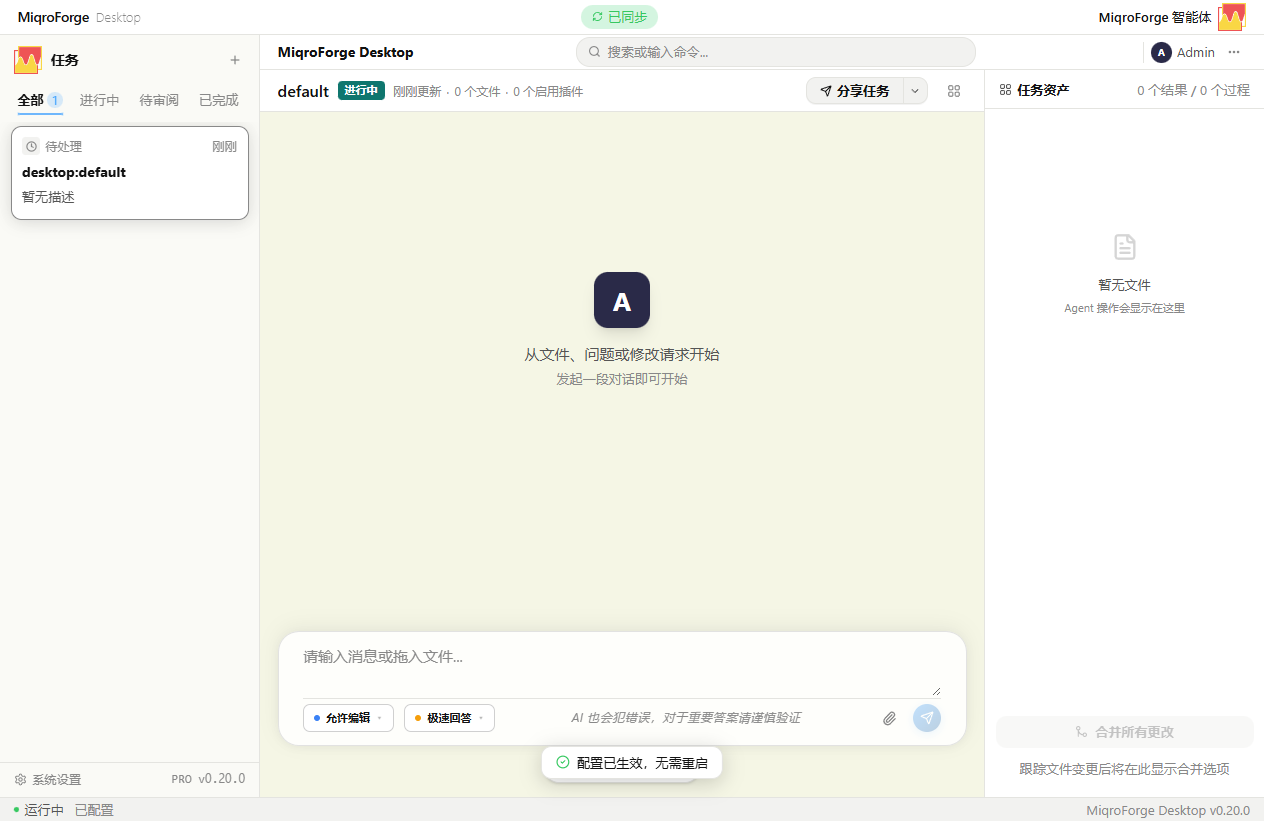
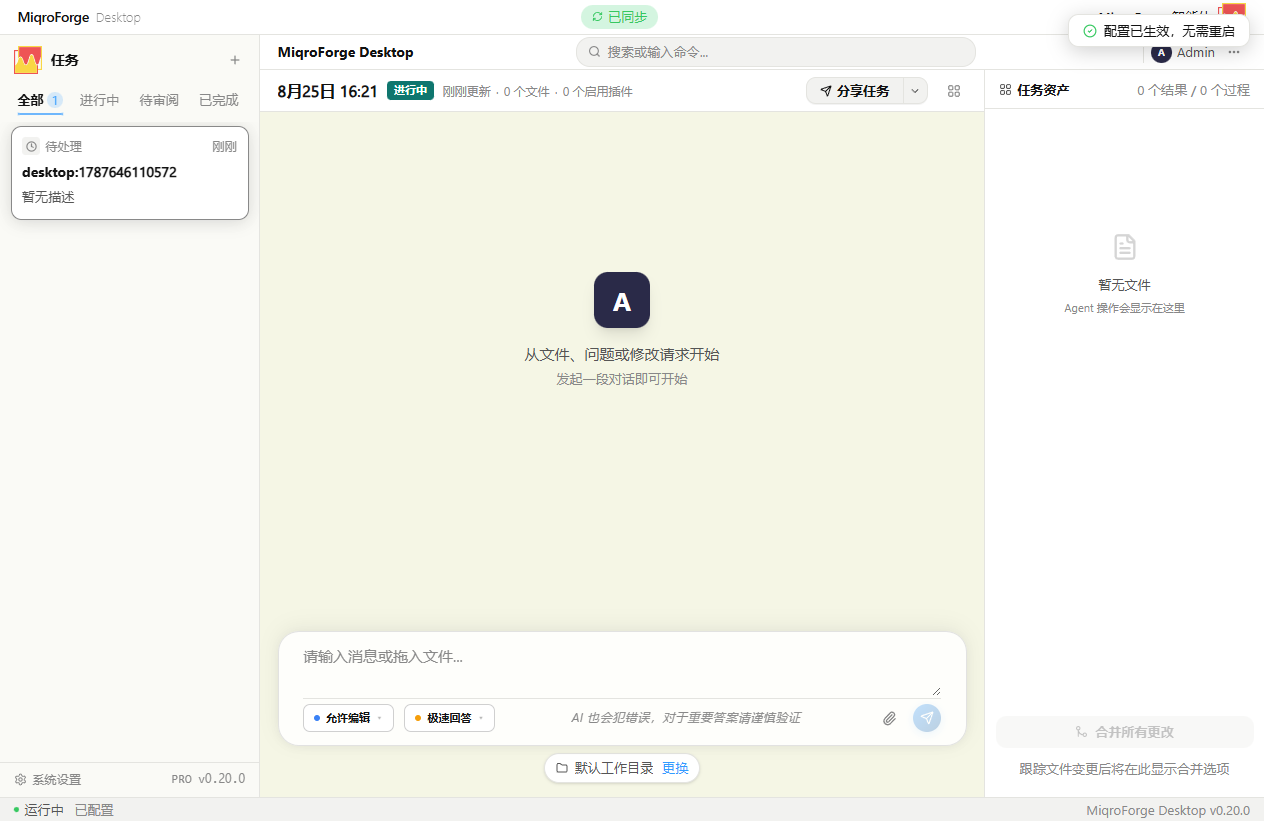
fix(ui): toast 移到右上角，避免与输入框上方的工作区弹窗重叠 (#789)
保存配置后的反馈 toast 原位于 bottom-12（输入框上方居中），与工作区
Agent 操作弹窗/确认卡同一位置，会互相遮挡。改为 fixed top-4 right-4
（右上角，z-[150] 与既有 toast 一致），不再挡对话流与输入区。

实机截图已更新并 vision 复核（toast 右上角 top=14/right=14，无错误框）：
- A 类保存 → 右上角「配置已生效，无需重启」+ 状态栏无重启标记
- C 类保存 → 状态栏「需要重启」+ WSL 原因 + 立即重启

验证：E2E 2/2 passed、vitest 280 passed

diff --git a/apps/desktop/src/renderer/components/ConfigHotReloadListener.tsx b/apps/desktop/src/renderer/components/ConfigHotReloadListener.tsx
@@ -94,7 +94,7 @@ export function ConfigHotReloadListener() {
   return (
     <div
       data-testid="config-updated-toast"
-      className="fixed bottom-12 left-1/2 -translate-x-1/2 z-[100] flex items-center gap-2 px-4 py-2 rounded-xl text-xs font-medium shadow-[0_4px_20px_rgba(0,0,0,0.18)]"
+      className="fixed top-4 right-4 z-[150] flex items-center gap-2 px-4 py-2 rounded-xl text-xs font-medium shadow-[0_4px_20px_rgba(0,0,0,0.18)]"
       style={{ background: 'var(--surface)', border: '1px solid var(--border-subtle)', color: 'var(--text)' }}
     >
       <Icon size={14} style={{ color }} />
